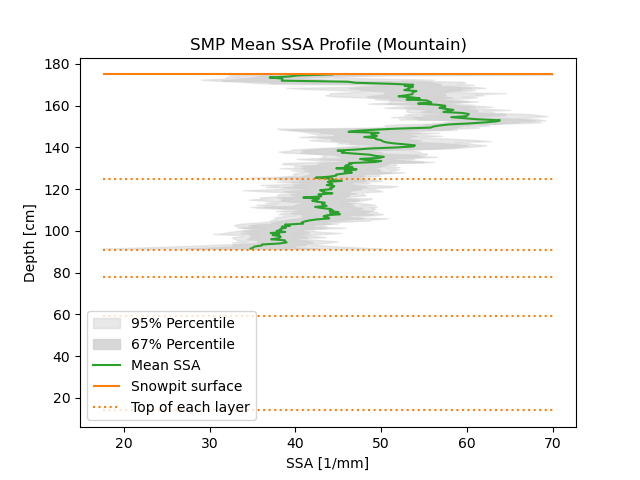
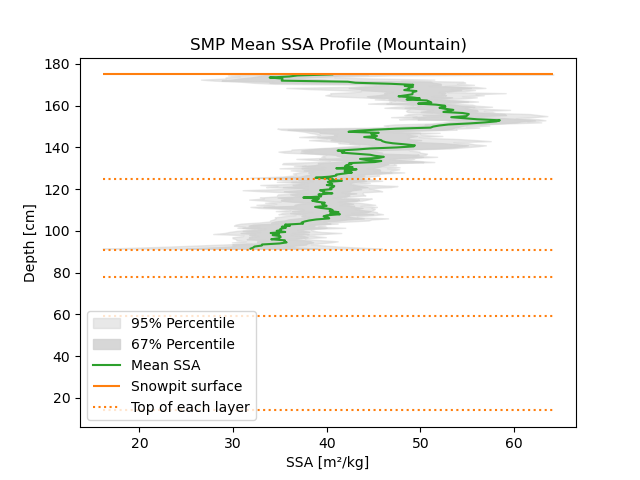
converting units

diff --git a/src/main.py b/src/main.py
@@ -118,7 +118,7 @@ for n, file in enumerate(files):
     binned_height = np.flip(binned_height)
 
     # convert to 1/mm
-    ssa_binned /= 0.916
+    #ssa_binned *= 0.916
 
     all_density.append((density_binned, binned_height))
     all_ssa.append((ssa_binned, binned_height))
@@ -200,7 +200,7 @@ plt.cla()
 plt.fill_betweenx(height_grid, low_ssa_95, high_ssa_95, color='lightgray', alpha=0.5, label='95% Percentile')
 plt.fill_betweenx(height_grid, low_ssa_67, high_ssa_67, color='lightgray', alpha=0.9, label='67% Percentile')
 plt.plot(mean_ssa, height_grid, 'C2-', label='Mean SSA')
-plt.xlabel('SSA [1/mm]')
+plt.xlabel('SSA [m²/kg]')
 plt.ylabel('Depth [cm]')
 plt.hlines(y=[PIT_HEIGHT / 10], xmin=low_ssa_95.min(), xmax=high_ssa_95.max(), label="Snowpit surface", color="C1")
 
